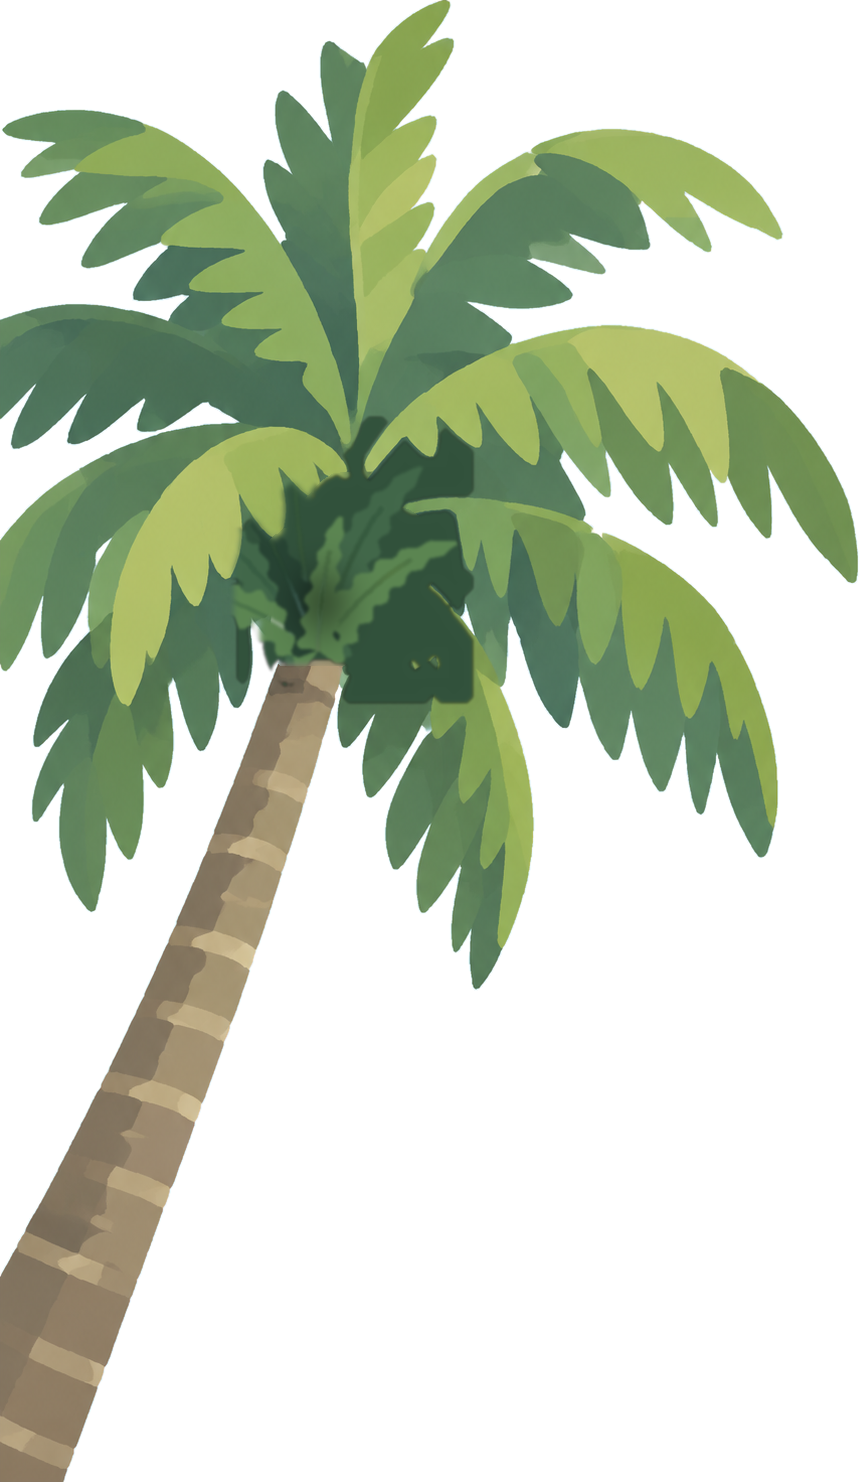
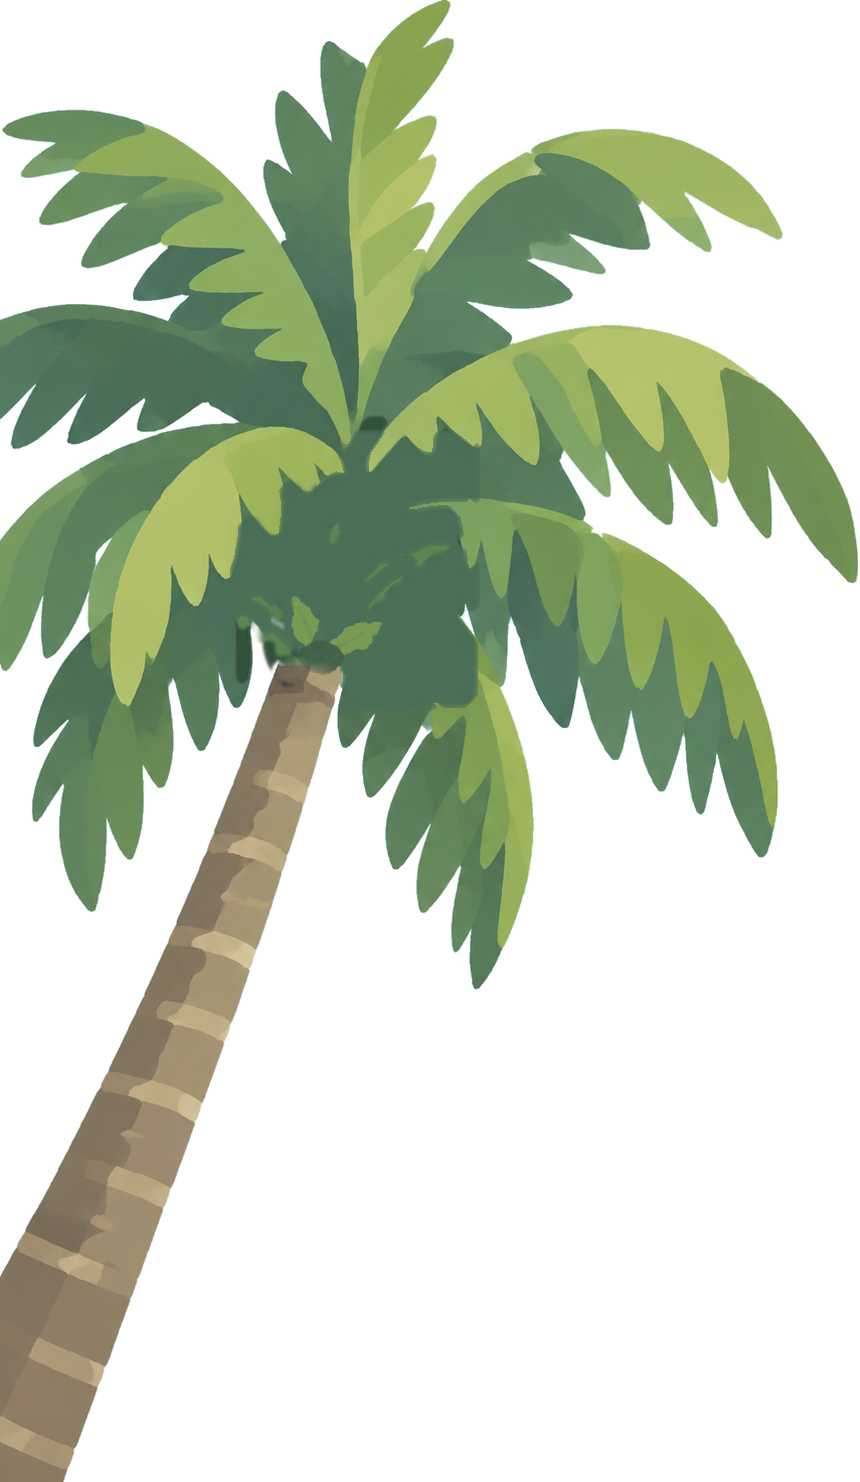
Release checks (26 October): the Candies card stays on sale after a buy and a full jar is refused before charging ('The candy jar is full'); the chapter 2 kitchen palm's crown repainted where the coconuts were taken out (the blocky square of bug IMG_9759; Store/artkit/palm_crown_fix.py); smoke_day.c

Changed region(s): [[0.2721, 0.2794, 0.5744, 0.4966]]

diff --git a/Docs/tools/recipes/ap/smoke_day.cs b/Docs/tools/recipes/ap/smoke_day.cs
@@ -1,0 +1,60 @@
+// Release smoke test (26 October 2026): plays the current day by itself through the real tap handlers, the glass-dish ice
+// cream flow included, refills like a kitchen trip would, and counts every error and exception the game logs. Writes a
+// one-line summary to Captures/smoke_<day>.txt when the level-complete panel shows (or after 240 s). Run on a started day.
+var lm = UnityEngine.Object.FindObjectOfType<LevelManager>(); if (lm == null) return "no LevelManager";
+var os = UnityEngine.Object.FindObjectOfType<OrderSystem>(); var st = UnityEngine.Object.FindObjectOfType<IceCreamStation>();
+var FL = System.Reflection.BindingFlags.NonPublic | System.Reflection.BindingFlags.Instance | System.Reflection.BindingFlags.Public;
+var errors = new System.Collections.Generic.List<string>(); var served = 0; var actions = 0;
+Application.LogCallback cb = (msg, trace, type) => { if (type == LogType.Error || type == LogType.Exception || type == LogType.Assert) { if (errors.Count < 30) errors.Add(type + ": " + msg.Split('\n')[0]); } };
+Application.logMessageReceived += cb;
+var ev = new UnityEngine.EventSystems.PointerEventData(UnityEngine.EventSystems.EventSystem.current);
+System.Collections.IList dishes = st != null ? (System.Collections.IList)typeof(IceCreamStation).GetField("dishes", FL).GetValue(st) : null;
+System.Func<object, bool> hasBowl = d => (bool)d.GetType().GetField("waffle").GetValue(d);
+System.Func<object, int> scoopsIn = d => ((System.Collections.ICollection)d.GetType().GetField("flavours").GetValue(d)).Count;
+var day = SessionManager.Instance.GetCurrentSession().levelsCompleted + 1;
+System.Collections.IEnumerator IceCream(string want)
+{
+    var bowl = want.IndexOf(IceCreamStation.WaffleLetter) >= 0; var letters = want.Replace(IceCreamStation.WaffleLetter.ToString(), "");
+    foreach (var ch in letters) if (st.Left(IceCreamStation.Letters.IndexOf(ch)) <= 0) { st.RefillAll(); break; }   // the blender
+    var pick = -1;
+    for (var i = 0; i < dishes.Count; i++) if (scoopsIn(dishes[i]) == 0 && hasBowl(dishes[i]) == bowl) { pick = i; break; }
+    if (pick < 0 && bowl)
+    {
+        for (var i = 0; i < dishes.Count && pick < 0; i++) if (scoopsIn(dishes[i]) == 0 && !hasBowl(dishes[i])) pick = -2;
+        if (pick == -2) { if (!st.IsBakingWaffles) st.OnTap(IceCreamTap.Kind.Waffle, 0); var w = 0f; while (st.IsBakingWaffles && w < 15f) { w += Time.deltaTime; yield return null; } pick = -1; for (var i = 0; i < dishes.Count; i++) if (scoopsIn(dishes[i]) == 0 && hasBowl(dishes[i])) { pick = i; break; } }
+    }
+    if (pick < 0)
+    {
+        // no fitting glass: empty one with the trash can (lift, trash)
+        st.OnTap(IceCreamTap.Kind.Dish, 0); yield return null; st.OnTap(IceCreamTap.Kind.Trash, 0); yield return null;
+        if (bowl) { if (!st.IsBakingWaffles) st.OnTap(IceCreamTap.Kind.Waffle, 0); var w = 0f; while (st.IsBakingWaffles && w < 15f) { w += Time.deltaTime; yield return null; } }
+        pick = -1; for (var i = 0; i < dishes.Count; i++) if (scoopsIn(dishes[i]) == 0 && hasBowl(dishes[i]) == bowl) { pick = i; break; }
+        if (pick < 0) yield break;
+    }
+    st.OnTap(IceCreamTap.Kind.Dish, pick); yield return new WaitForSeconds(0.15f);
+    foreach (var ch in letters) { st.OnTap(IceCreamTap.Kind.Section, IceCreamStation.Letters.IndexOf(ch)); yield return new WaitForSeconds(0.12f); }
+    st.OnTap(IceCreamTap.Kind.Dish, pick); served++;
+}
+System.Collections.IEnumerator Play()
+{
+    var t = 0f;
+    while (t < 240f && !(lm.levelCompletePanel != null && lm.levelCompletePanel.activeSelf))
+    {
+        t += 0.35f; yield return new WaitForSeconds(0.35f); actions++;
+        var tv = os.GetCurrentOrderTypesWithVariants(); if (tv.Count == 0) continue;
+        var first = tv[0];
+        if (first.StartsWith("IceCream:") && st != null) { yield return IceCream(first.Substring(9)); continue; }
+        foreach (var it in UnityEngine.Object.FindObjectsOfType<ServeableItem>())
+        {
+            if (it.GetFoodType() != first || !it.gameObject.activeInHierarchy) continue;
+            var ri = it.GetComponent<RefillableItem>();
+            if (ri != null) { var f = typeof(RefillableItem).GetField("currentCount", FL); var n = (int)f.GetValue(ri); if (n <= 0) { if (first == "Coffee") { var cm = UnityEngine.Object.FindObjectOfType<CoffeeMachine>(); if (cm != null) cm.OnPointerClick(ev); } else ri.IncreaseCount(99); break; } }
+            it.OnPointerDown(ev); it.OnPointerUp(ev); it.OnPointerClick(ev); served++; break;
+        }
+    }
+    Application.logMessageReceived -= cb;
+    var stars = lm.levelCompletePanel != null && lm.levelCompletePanel.activeSelf ? "day ended" : "timed out";
+    var line = "day " + day + " chapter " + SessionManager.CurrentChapter + ": " + stars + " after " + t.ToString("F0") + " s, served " + served + ", errors " + errors.Count + (errors.Count > 0 ? " | " + string.Join(" | ", errors) : "");
+    System.IO.File.WriteAllText(System.IO.Path.Combine(Application.dataPath, "../Captures/smoke_" + day + ".txt"), line);
+}
+lm.StartCoroutine(Play()); return "smoke test running on day " + day;

diff --git a/Assets/Scripts/Shop/ShopManager.cs b/Assets/Scripts/Shop/ShopManager.cs
@@ -161,6 +161,12 @@ public class ShopManager : MonoBehaviour
             return false;
         }
 
+        if (item.itemType == ItemType.Decor && item.itemName == "Candies" && session.Candies >= CandyJar.Full)
+        {
+            ShowPurchaseFailedFeedback("The candy jar is full");   // nothing charged (26 October 2026)
+            return false;
+        }
+
         if (!session.CanAfford(item.price))
         {
             var currentScore = session.GetTotalScore();
@@ -205,8 +211,8 @@ public class ShopManager : MonoBehaviour
         // Update score display
         UpdateScoreDisplay();
 
-        // Mark as purchased in UI
-        item.MarkAsPurchased();
+        // Mark as purchased in UI; the candies stay on sale (owner, 26 October 2026)
+        if (!(item.itemType == ItemType.Decor && item.itemName == "Candies")) item.MarkAsPurchased();
         if (AudioManager.Instance != null)
             AudioManager.Instance.PlayPurchaseSound();
 
